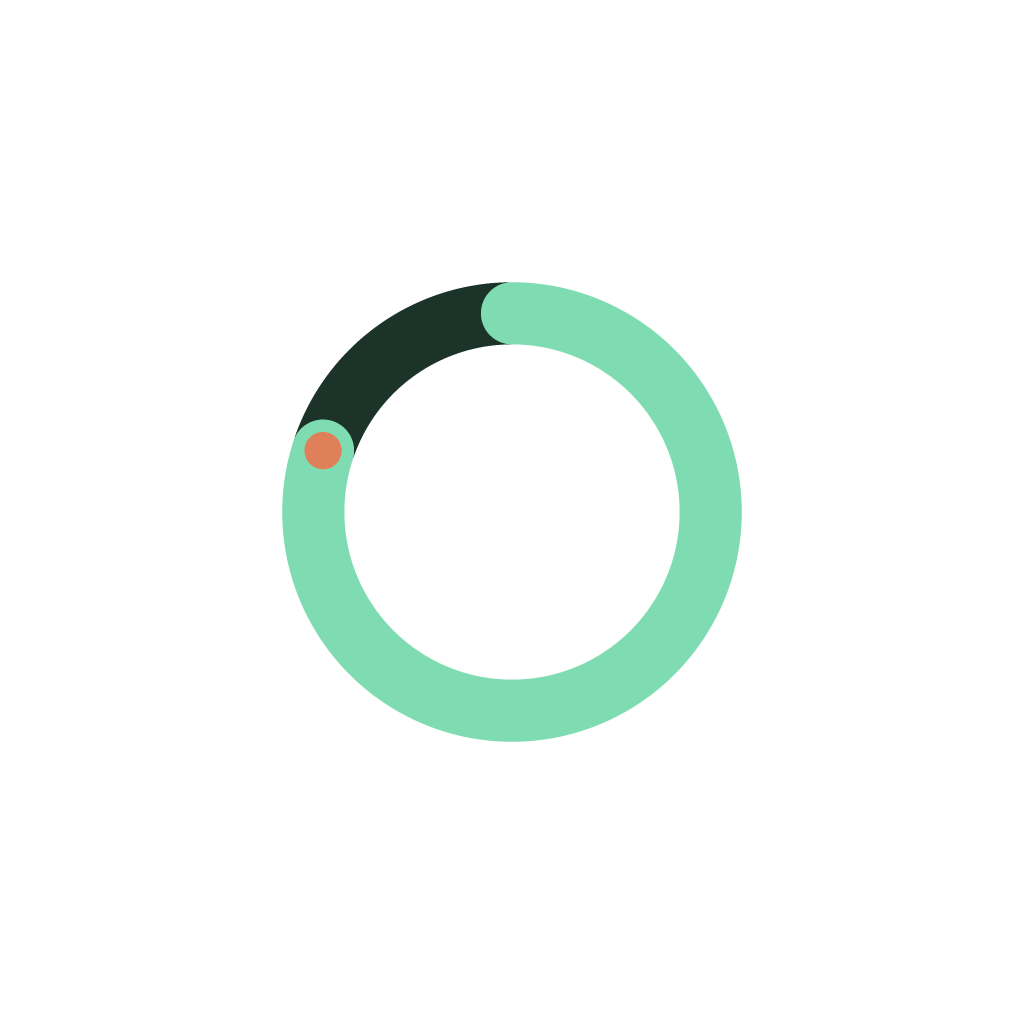
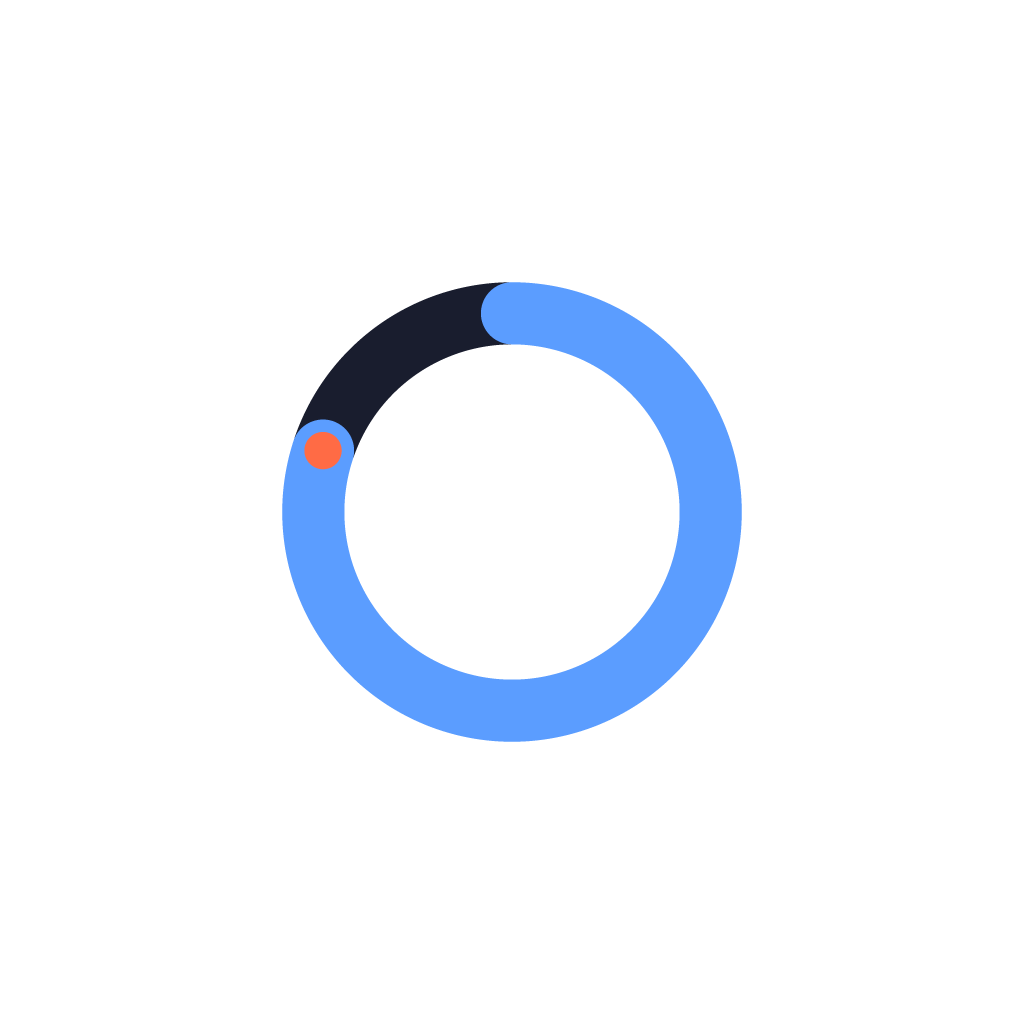
Adopt Midnight Indigo theme + bump to v1.0.0
New palette: Obsidian navy base, Electric-blue success accent, Persimmon
miss/fail — chosen from the colorway studio. Both dark and a coordinated
light variant land at WCAG AA (verified). Token names mint/sienna kept
(now blue/persimmon values) to avoid a rename across every screen.

- tokens.ts: dark + light palettes.
- Regenerate icon/splash/adaptive/favicon to match (blue ring, persimmon
  dot, obsidian ground) via scripts/generate-icons.js.
- app.json: version 1.0.0 for the TestFlight/App Store build.
- QA.md / DECISIONS.md updated.

tsc clean; 64 engine tests green; iOS bundle exports.

Changed region(s): [[0.25, 0.25, 0.75, 0.75]]

diff --git a/eighty/src/theme/tokens.ts b/eighty/src/theme/tokens.ts
@@ -2,37 +2,41 @@ import { useColorScheme } from 'react-native';
 import { useThemeOverride } from './ThemeContext';
 
 /**
- * "Night Fir" design tokens — C palette on B card structure (Phase 1 approved).
- * Dark is the native scheme; light is the derived variant.
+ * "Midnight Indigo" design tokens — Obsidian navy base, Electric-blue accent
+ * (success), Persimmon warn (miss). Dark is the native scheme; light is the
+ * derived variant. Both are tuned to clear WCAG AA (see eighty/QA.md § contrast).
+ *
+ * NOTE: the token names `mint` (accent / success) and `sienna` (warn / fail) are
+ * kept for stability across the app — the *values* are blue / persimmon now, not
+ * green / terracotta. Rename is a future cleanup, not worth touching every screen.
  */
 export const palettes = {
   dark: {
-    bg: '#0d1411',
-    card: '#141d18',
-    card2: '#1a2620',
-    ink: '#edf3ee',
-    sub: '#8da399',
-    mint: '#7fdcb2',
-    mintSoft: '#1c332a',
-    sienna: '#e0805a',
-    siennaSoft: '#33231b',
-    line: '#22302a',
-    onAccent: '#0d1411',
+    bg: '#08090f',
+    card: '#10131f',
+    card2: '#191d2e',
+    ink: '#e8eaf2',
+    sub: '#8d93a6',
+    mint: '#5b9dff', // Electric blue — success / accent
+    mintSoft: '#14223d',
+    sienna: '#ff6b45', // Persimmon — fail / warn
+    siennaSoft: '#331711',
+    line: '#212636',
+    onAccent: '#08090f',
   },
   light: {
-    // Text/accent colors tuned to clear WCAG AA (4.5:1) on their backgrounds;
-    // see eighty/QA.md § contrast. sub/mint/sienna were darkened slightly from
-    // the original draft to pass on the lightest surfaces (card, chips).
-    bg: '#eef1ee',
-    card: '#f8faf8',
-    card2: '#e6ebe7',
-    ink: '#17241d',
-    sub: '#586a60',
-    mint: '#156c4a',
-    mintSoft: '#d9eae1',
-    sienna: '#a54c26',
-    siennaSoft: '#f3e3d9',
-    line: '#dde3de',
+    // Blue/persimmon light variant; sub/mint/sienna darkened to clear AA on the
+    // lightest surfaces (card, chips).
+    bg: '#eef1f6',
+    card: '#f9fbfd',
+    card2: '#e6eaf2',
+    ink: '#131a2b',
+    sub: '#586074',
+    mint: '#245ec9', // Electric blue, darkened for light backgrounds
+    mintSoft: '#dce7fb',
+    sienna: '#b0461f', // Persimmon, darkened for light backgrounds
+    siennaSoft: '#f7e2da',
+    line: '#dce2ec',
     onAccent: '#ffffff',
   },
 } as const;

diff --git a/eighty/scripts/generate-icons.js b/eighty/scripts/generate-icons.js
@@ -9,11 +9,12 @@ const path = require('path');
 
 const OUT = process.argv[2] || path.join(__dirname, '..', 'assets', 'images');
 
-const MINT = [127, 220, 178]; // #7fdcb2
-const SIENNA = [224, 128, 90]; // #e0805a
-const TRACK = [28, 51, 42]; // #1c332a — faint ring behind the arc
-const BG_CENTER = [22, 33, 27]; // #16211b
-const BG_EDGE = [11, 18, 15]; // #0b120f
+// "Midnight Indigo" identity — Electric-blue arc, Persimmon leading dot, Obsidian ground.
+const MINT = [91, 157, 255]; // #5b9dff — electric blue (success/accent)
+const SIENNA = [255, 107, 69]; // #ff6b45 — persimmon (the leading progress dot)
+const TRACK = [25, 29, 46]; // #191d2e — faint ring behind the arc (obsidian card2)
+const BG_CENTER = [18, 20, 31]; // #12141f
+const BG_EDGE = [6, 7, 12]; // #06070c
 
 const lerp = (a, b, t) => a + (b - a) * t;
 const rad = (d) => (d * Math.PI) / 180;

diff --git a/eighty/QA.md b/eighty/QA.md
@@ -9,23 +9,18 @@ from the original spec, each scenario mapped to how it's verified.
 
 ### Color contrast (WCAG)
 
-Both "Night Fir" palettes were checked with the standard WCAG relative-luminance
-formula (script kept in the session scratchpad; reproducible from `tokens.ts`).
-Targets: **4.5:1** for normal text, **3:1** for large text / UI components.
+Both "Midnight Indigo" palettes (Obsidian base · Electric-blue success · Persimmon miss)
+were checked with the standard WCAG relative-luminance formula (script reproducible from
+`tokens.ts`). Targets: **4.5:1** for normal text, **3:1** for large text / UI components.
+Note: token names `mint`/`sienna` are retained but now hold blue/persimmon values.
 
 **Dark palette (native scheme):** every text pairing passes AA comfortably —
-`ink` 15–16:1, `sub` 5.8–7:1, `mint`/`sienna` accents 5.3–11:1, button labels
-6.6–11:1.
+`ink` ~16:1, `sub` 5.5–6.5:1, `mint`(blue)/`sienna`(persimmon) accents 5.8–7.3:1,
+button/cell labels ~7:1.
 
-**Light palette:** three tokens were darkened slightly from the first draft so they
-clear AA on the lightest surfaces (cards and chips), where the original values landed
-just under 4.5:1:
-
-| Token | Was | Now | Tightest ratio now |
-|-------|-----|-----|--------------------|
-| `sub`    | `#5f7168` | `#586a60` | 4.77:1 on `card2` |
-| `mint`   | `#177651` | `#156c4a` | 5.13:1 on `mintSoft` |
-| `sienna` | `#b95c34` | `#a54c26` | 4.59:1 on `siennaSoft` |
+**Light palette:** the blue and persimmon are darkened for legibility on light surfaces;
+tightest ratios after tuning — `mint` 4.79:1 on `mintSoft`, `sienna` 4.50:1 on
+`siennaSoft`, `sub` 5.21:1 on `card2`. All pass AA.
 
 **Known, accepted sub-3:1 pairing:** the card **border** (`line`) sits ~1.2:1 against
 the card fill in both palettes. This is an intentional, low-contrast separator; the

diff --git a/eighty/DECISIONS.md b/eighty/DECISIONS.md
@@ -5,6 +5,19 @@ override any of them on review. Newest on top. Nothing here is irreversible.
 
 ---
 
+## 2026-07-18
+
+### Theme switched to "Midnight Indigo" (Obsidian · Electric blue · Persimmon)
+You picked this in the colorway studio. Applied to both `tokens.ts` palettes (dark + a
+coordinated light variant), both verified ≥ WCAG AA. Regenerated the app icon/splash to
+match (blue ring + persimmon dot on obsidian). Kept the token names `mint`/`sienna` (now
+holding blue/persimmon) to avoid a churny rename across every screen. **Reversible:** the
+old Night Fir values are in git history (pre-`7295632`).
+
+### Version bumped to 1.0.0
+For the TestFlight/App Store build. `buildNumber` auto-increments via the EAS `production`
+profile.
+
 ## 2026-07-17
 
 ### M13 widget — you greenlit it; now BUILT (2026-07-18)
